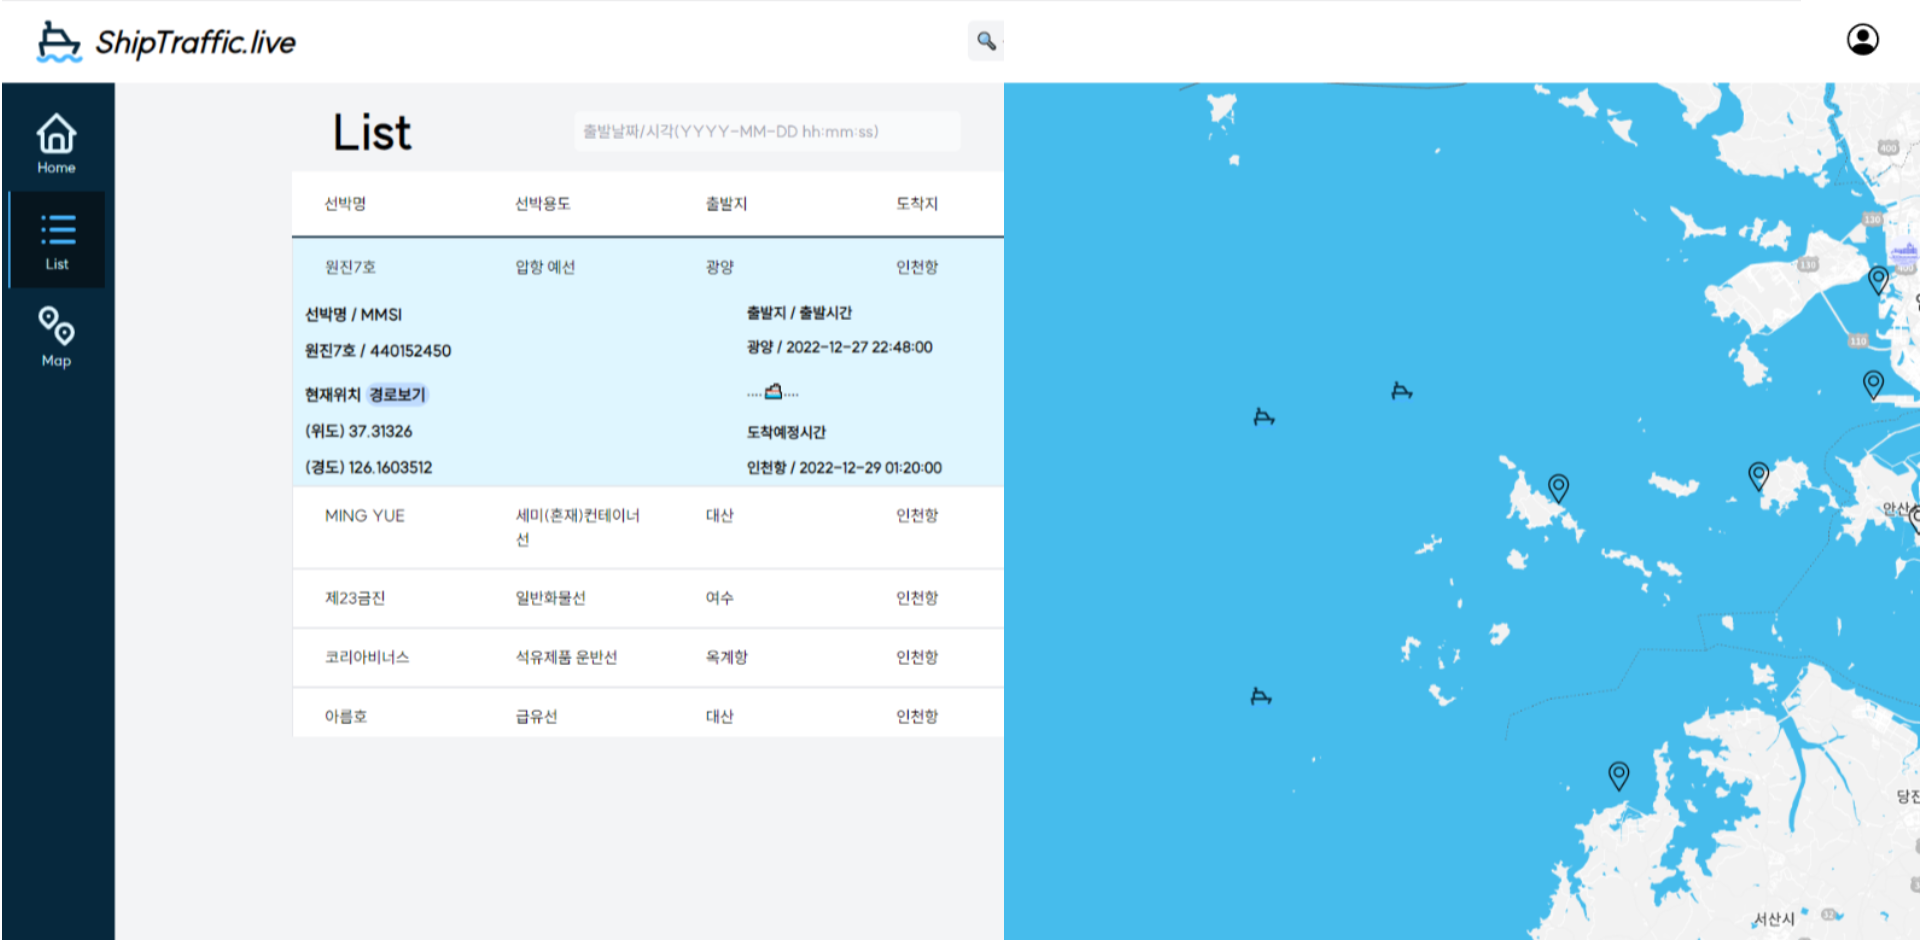
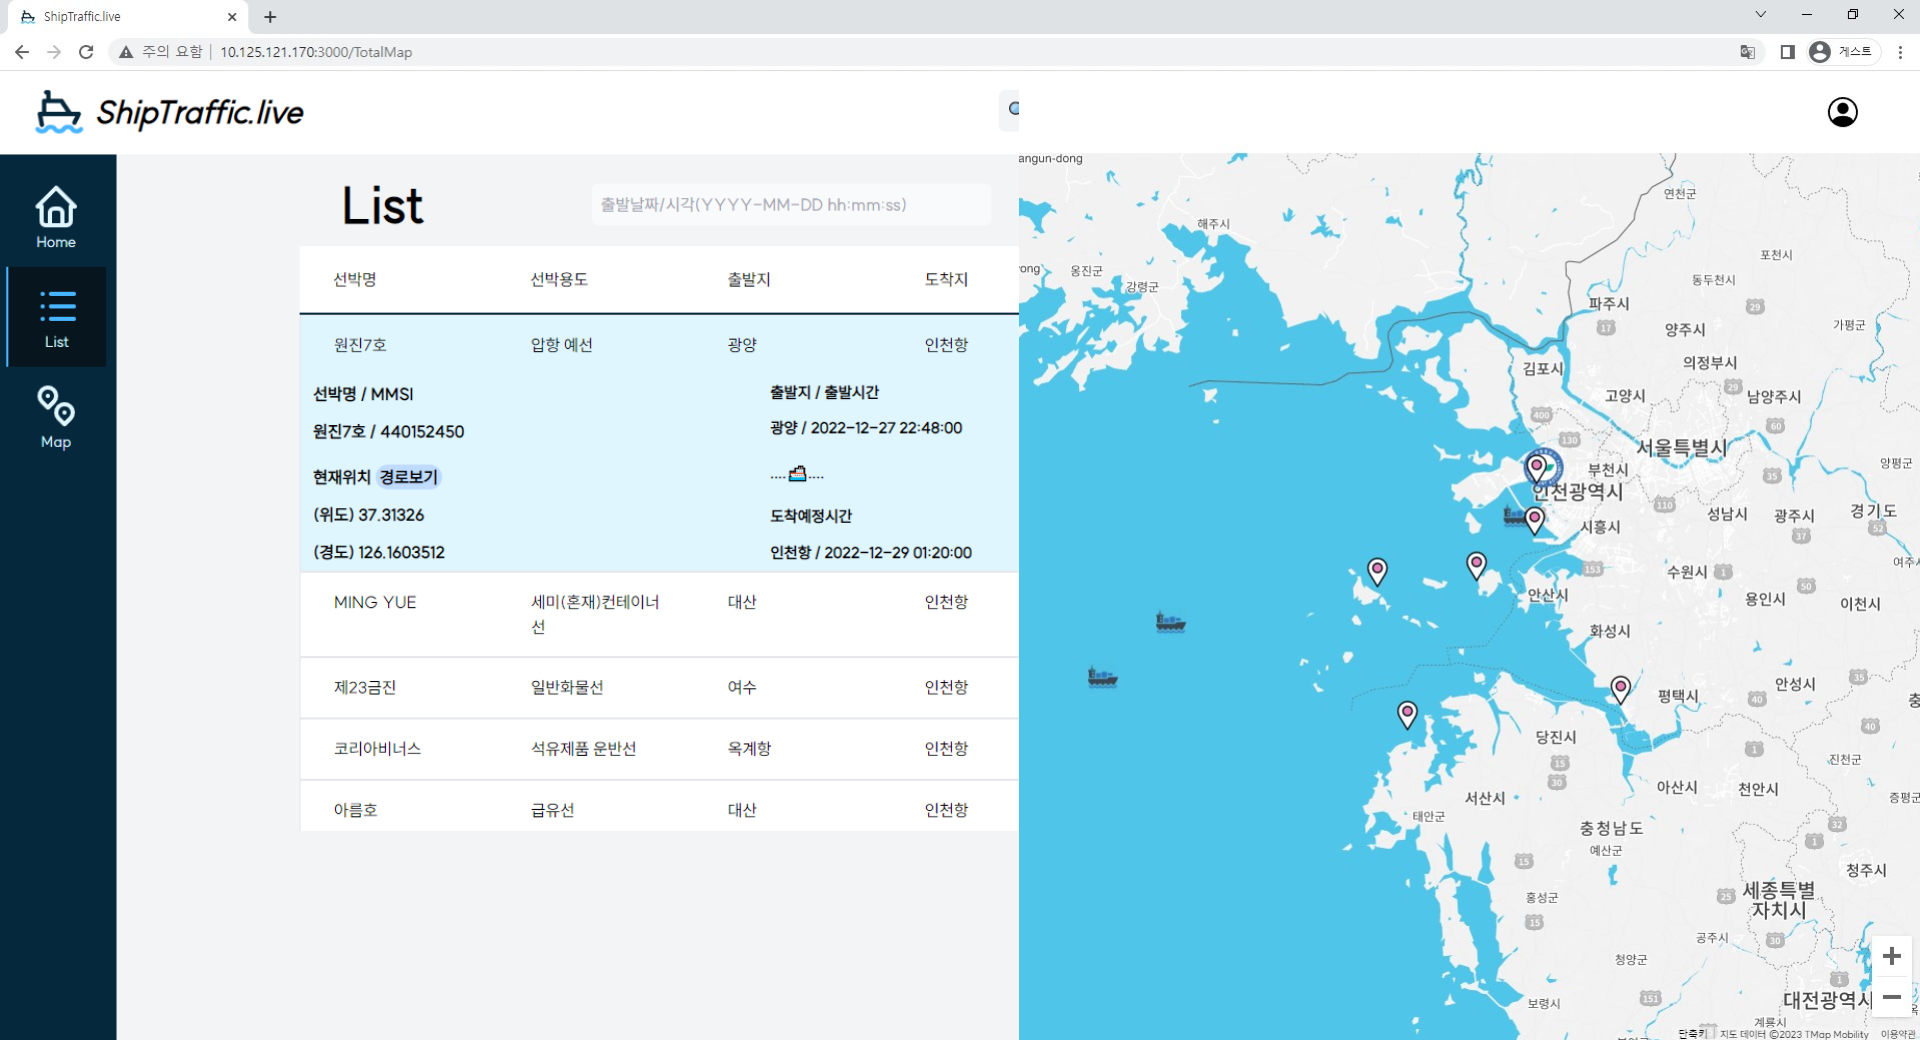
[230309] FEAT 최종업로드

diff --git a/src/pages/TotalMap.jsx b/src/pages/TotalMap.jsx
@@ -2,7 +2,8 @@ import { React, useState, useEffect } from "react"
 import MapStyles from "../MapStyles"
 import axios from "axios"
 import Detail from "../component/Detail"
-
+import {BsCaretDownFill} from 'react-icons/bs'
+import ShipList from "../component/ShipList"
 import {
   Circle,
   GoogleMap,
@@ -28,7 +29,7 @@ const TotalMap = ({timeGroup}) => {
       arrivalName: "",
     },
   ])
-
+  const [open, setOpen] = useState()
   const [changePath, setChangePath] = useState([])
   const [activeMarker, setActiveMarker] = useState(null)
   const [shipClick, setShipClick] = useState()
@@ -115,12 +116,21 @@ const TotalMap = ({timeGroup}) => {
 
   return (
     <>
+   
       {/* 구글 맵 api 받아오기 */}
       <LoadScript googleMapsApiKey="AIzaSyDgd7TSRgGpk4aaQMdrYG9bJJiKnzdRGDY">
         <div className="z-10 bg-white h-[82px] w-screen absolute"/>
           <div className="z-0 absolute w-screen h-screen">
             <div className="text-black absolute pt-24 ml-32 z-20">
-              <div className="text-[16px] bg-white p-1 rounded-md">현재 선박 척수 : {ship.length}척</div>
+              <div className="text-[16px] bg-white p-1 rounded-md">
+              <BsCaretDownFill  className="float-left mt-1" onClick={()=>{setOpen(!open)}}/>
+                현재 선박 척수 : {ship.length}척
+              <div className={`${open? "w-72" : "w-6"} list h-560px bg-[#1E293B] relative`}>
+        {/* 선박 List */}
+          { open ? <ShipList ship={ship} handleActiveMarker={handleActiveMarker}/> : null}
+          </div>
+          {/* Listbar 줄이기 넓히기 */}
+         </div>
             </div>
           <GoogleMap
             mapContainerStyle={containerStyle} // 구글맵 사이즈
@@ -230,7 +240,7 @@ const TotalMap = ({timeGroup}) => {
           
                 {activeMarker === obsName ? 
                   <Circle
-                    center={{lat :  parseFloat(obsLat), lng : parseFloat(obsLon)}}
+                    center={{lat :parseFloat(obsLat), lng : parseFloat(obsLon)}}
                     radius = {30000}
                     options={circleOptions}/>:null}
               </MarkerF>

diff --git a/src/login/Login.jsx b/src/login/Login.jsx
@@ -1,6 +1,7 @@
 import axios from "axios";
 import React, { useState } from "react";
 import { useEffect } from "react";
+import { useNavigate } from "react-router-dom";
 
 const Login = () => {
 
@@ -10,6 +11,10 @@ const Login = () => {
   const [savedPassword, setSavedPassword] = useState("")
 
   
+  const navigate = useNavigate()
+
+
+
   useEffect(()=>{
       axios.get(`http://localhost:8080/signin/${userId}`,{
         Id : userId,
@@ -31,13 +36,7 @@ const Login = () => {
 
       })
   },[]) 
-
-
-
-
-
   let sessionStorage = window.sessionStorage
-
   return (
     <main className="flex min-h-screen w-full items-center justify-center bg-gray-900 text-white mx-auto">
       <section className="flex flex-col space-y-9 w-[20rem]">
@@ -56,7 +55,7 @@ const Login = () => {
           className="w-full border-none bg-transparent outline-none placeholder:italic focus:outline-none" 
           onChange={(e)=>{setPassword(e.target.value)}}/>
         </div>
-        <button onClick={()=>{
+        <button onClick={()=>{navigate('*')
        
 
           // setSavedUserId(sessionStorage.getItem("id"))

diff --git a/src/component/Carousel.jsx b/src/component/Carousel.jsx
@@ -44,7 +44,7 @@ const Carousel = () => {
             <p>를 알려줍니다.</p>
           </div>
           <p className='mt-2 mb-5 text-[18px]'>선박의 도착시각을 예측하여 효과적인 대응체계를 구축할 수 있도록 도와줍니다.</p>
-          <img src={carousel1} alt='Info' className='w-full h-full'/>
+          <img src={carousel3} alt='Info' className='w-full h-full'/>
         </SwiperSlide>
 
         <SwiperSlide className='text-center'>
@@ -55,7 +55,7 @@ const Carousel = () => {
             <p>를 알려줍니다.</p>
           </div>
           <p className='mt-2 mb-5 '>항구 주변 50마일 이내의 모든 선박들의 실시간 위치를 제공함으로서 항구 주변 상황을 한눈에 파악할 수 있습니다.</p>
-          <img src={carousel3} alt='TotalMap' className='w-full h-full'/>
+          <img src={carousel1} alt='TotalMap' className='w-full h-full'/>
         </SwiperSlide>
 
       </Swiper>

diff --git a/src/component/ShipList.jsx b/src/component/ShipList.jsx
@@ -1,0 +1,24 @@
+import React from 'react'
+import { useNavigate } from 'react-router-dom'
+
+const ShipList = ({ship , handleActiveMarker}) => {
+
+  const navigate = useNavigate()
+  return (
+
+
+    <div className='flex justify-center'>
+      <div>
+        <h2 className='pt-3 pb-2 flex text-[#47B5FF] font-bold text-2xl justify-center'>선박List</h2>
+        {ship.map(({shipId,shipName})=>(
+          <div className='p-2 text-center text-white hover:text-black hover:text-[20px]' key={shipId}>
+          <p className="hover:bg-white"
+               onClick={() => handleActiveMarker(shipId)}>{shipName}</p>
+          </div>
+        ))}
+      </div>
+    </div>
+  )
+}
+
+export default ShipList

diff --git a/src/pages/Info.jsx b/src/pages/Info.jsx
@@ -105,7 +105,7 @@ const Info = ({ timeGroup }) => {
               setCheckChange(e.target.value)
             }} />
           <ComboboxPopover>
-            <ComboboxList className="absolute bg-white bg-opacity-80">
+            <ComboboxList className="absolute bg-white bg-opacity-80 z-30">
               {changeShip.map(({shipName,shipId})=>{
                 const str = `${shipName}`
                 return <ComboboxOption 

diff --git a/src/pages/Home.jsx b/src/pages/Home.jsx
@@ -3,7 +3,11 @@ import half from '../img/half.png'
 import bg from '../img/bg.png'
 import Carousel from '../component/Carousel'
 
+
+const Title =`st`
+
 const Home = () => {
+  
   
   return (
     <div className='h-screen overflow-auto absolute'>
